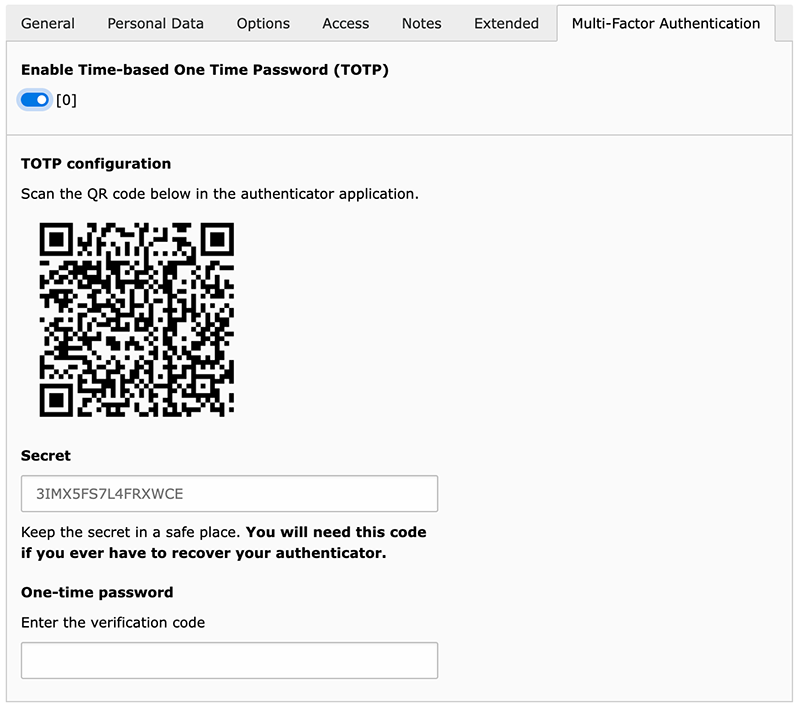
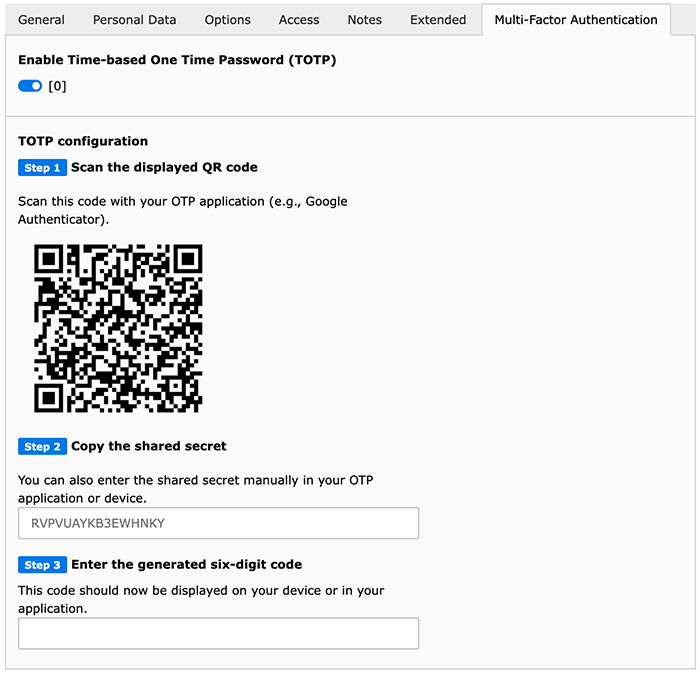
[TASK] Streamline the steps and labels with TYPO3 v11 Core

Changed region(s): [[0.0, 0.0624, 1.0, 0.9985], [0.0, 0.0, 0.99, 0.156]]

diff --git a/Resources/Private/Partials/Backend/Form/OneTimePassword.html b/Resources/Private/Partials/Backend/Form/OneTimePassword.html
@@ -2,19 +2,22 @@
       data-namespace-typo3-fluid="true">
 
     <label class="mb-2">
-        <strong><f:translate key="otp" extensionName="mfa_frontend"/></strong>
+        <strong>
+            <f:if condition="!{isEnabled}">
+                <span class="badge badge-primary"><f:translate key="totp.step3" extensionName="mfa_frontend"/></span>
+            </f:if>
+            <f:translate key="totp.step3.title" extensionName="mfa_frontend"/>
+        </strong>
     </label>
-
-    <div class="mb-2">
-        <f:if condition="{isEnabled}">
-            <f:then>
-                <f:translate key="backend.disableAuthenticator" extensionName="mfa_frontend"/>
-            </f:then>
-            <f:else>
-                <f:translate key="totp.step3.title" extensionName="mfa_frontend"/>
-            </f:else>
-        </f:if>
-    </div>
+    <br/>
+    <f:if condition="{isEnabled}">
+        <f:then>
+            <f:translate key="backend.disableAuthenticator" extensionName="mfa_frontend"/>
+        </f:then>
+        <f:else>
+            <f:translate key="totp.step3.body" extensionName="mfa_frontend"/>
+        </f:else>
+    </f:if>
 
     <input type="text"
         id="field_tx_mfafrontend_otp"

diff --git a/Resources/Private/Partials/Backend/Form/Secret.html b/Resources/Private/Partials/Backend/Form/Secret.html
@@ -1,10 +1,15 @@
 <html xmlns:f="http://typo3.org/ns/TYPO3/CMS/Fluid/ViewHelpers"
       data-namespace-typo3-fluid="true">
 
-<div>
-    <label for="field_tx_mfafrontend_secret" class="mb-2">
-        <strong><f:translate key="secret" extensionName="mfa_frontend"/></strong>
-    </label>
+<!-- style needed for TYPO3 v10 only -->
+<div class="mb-3" style="margin-bottom:1rem">
+    <p>
+        <strong>
+            <span class="badge badge-primary"><f:translate key="totp.step2" extensionName="mfa_frontend"/></span>
+            <f:translate key="totp.step2.title" extensionName="mfa_frontend"/>
+        </strong>
+    </p>
+    <f:translate key="totp.step2.body" extensionName="mfa_frontend"/>
     <input type="text"
         id="field_tx_mfafrontend_secret"
         name="data{prefix}[tx_mfafrontend_secret]"
@@ -12,12 +17,6 @@
         readonly="readonly"
         class="form-control"
     />
-</div>
-<div class="mt-2 mb-3">
-    <f:translate key="totp.step2.title" extensionName="mfa_frontend"/>.
-    <strong>
-        <f:translate key="totp.step2.body" extensionName="mfa_frontend"/>
-    </strong>
 </div>
 
 </html>

diff --git a/Resources/Private/Partials/Backend/Form/QrCode.html b/Resources/Private/Partials/Backend/Form/QrCode.html
@@ -3,6 +3,12 @@
       data-namespace-typo3-fluid="true">
 
 <div class="mb-2">
+    <p>
+        <strong>
+            <span class="badge badge-primary"><f:translate key="totp.step1" extensionName="mfa_frontend"/></span>
+            <f:translate key="totp.step1.title" extensionName="mfa_frontend"/>
+        </strong>
+    </p>
     <f:translate key="totp.step1.body" extensionName="mfa_frontend"/>
     <div>
         <mf:qrImage secret="{totpSecret}"

diff --git a/Resources/Private/Templates/Setup/Index.html b/Resources/Private/Templates/Setup/Index.html
@@ -35,6 +35,9 @@
 <f:section name="disable-form">
     <div class="body p-3">
         <f:form.hidden id="field_tx_mfafrontend_secret" property="secret"/>
+        <p>
+            <f:translate key="disable2FA" extensionName="mfa_frontend"/>
+        </p>
         <f:render partial="Form/OneTimePassword" arguments="{_all}"/>
     </div>
 

diff --git a/Resources/Private/Partials/Form/OneTimePassword.html b/Resources/Private/Partials/Form/OneTimePassword.html
@@ -2,10 +2,6 @@
       data-namespace-typo3-fluid="true">
 
 <div>
-    <label for="field_tx_mfafrontend_onetimepassword">
-        <f:translate key="otp" extensionName="mfa_frontend"/>
-    </label>
-
     <f:form.textfield
         id="field_tx_mfafrontend_onetimepassword"
         property="oneTimePassword"

diff --git a/Resources/Private/Partials/Form/Secret.html b/Resources/Private/Partials/Form/Secret.html
@@ -2,9 +2,6 @@
       data-namespace-typo3-fluid="true">
 
 <div>
-    <label for="field_tx_mfafrontend_secret">
-        <f:translate key="secret" extensionName="mfa_frontend"/>
-    </label>
     <f:form.textfield
         id="field_tx_mfafrontend_secret"
         property="secret"

diff --git a/Resources/Private/Templates/Backend/TotpElement.html b/Resources/Private/Templates/Backend/TotpElement.html
@@ -7,7 +7,7 @@
     }"
 />
 
-<div class="form-group" style="max-width: 360px">
+<div class="form-group" style="max-width: 400px">
     <f:if condition="{isEnabled}">
         <f:then>
             <f:render

diff --git a/Documentation/Usage/Index.rst b/Documentation/Usage/Index.rst
@@ -5,8 +5,8 @@ Usage
 =====
 
 When you edit a Frontend User (``fe_users``), you will see a new tab called
-"Multi-Factor Authentication". There you can enable MFA for the user by toggling
-the switch and following the instructions:
+"Multi-Factor Authentication". There, you can enable MFA for the user by
+toggling the switch and following the instructions:
 
 .. image:: ../Introduction/Images/mfa-tca.png
    :alt: Configuration of the MFA settings for a Frontend user
